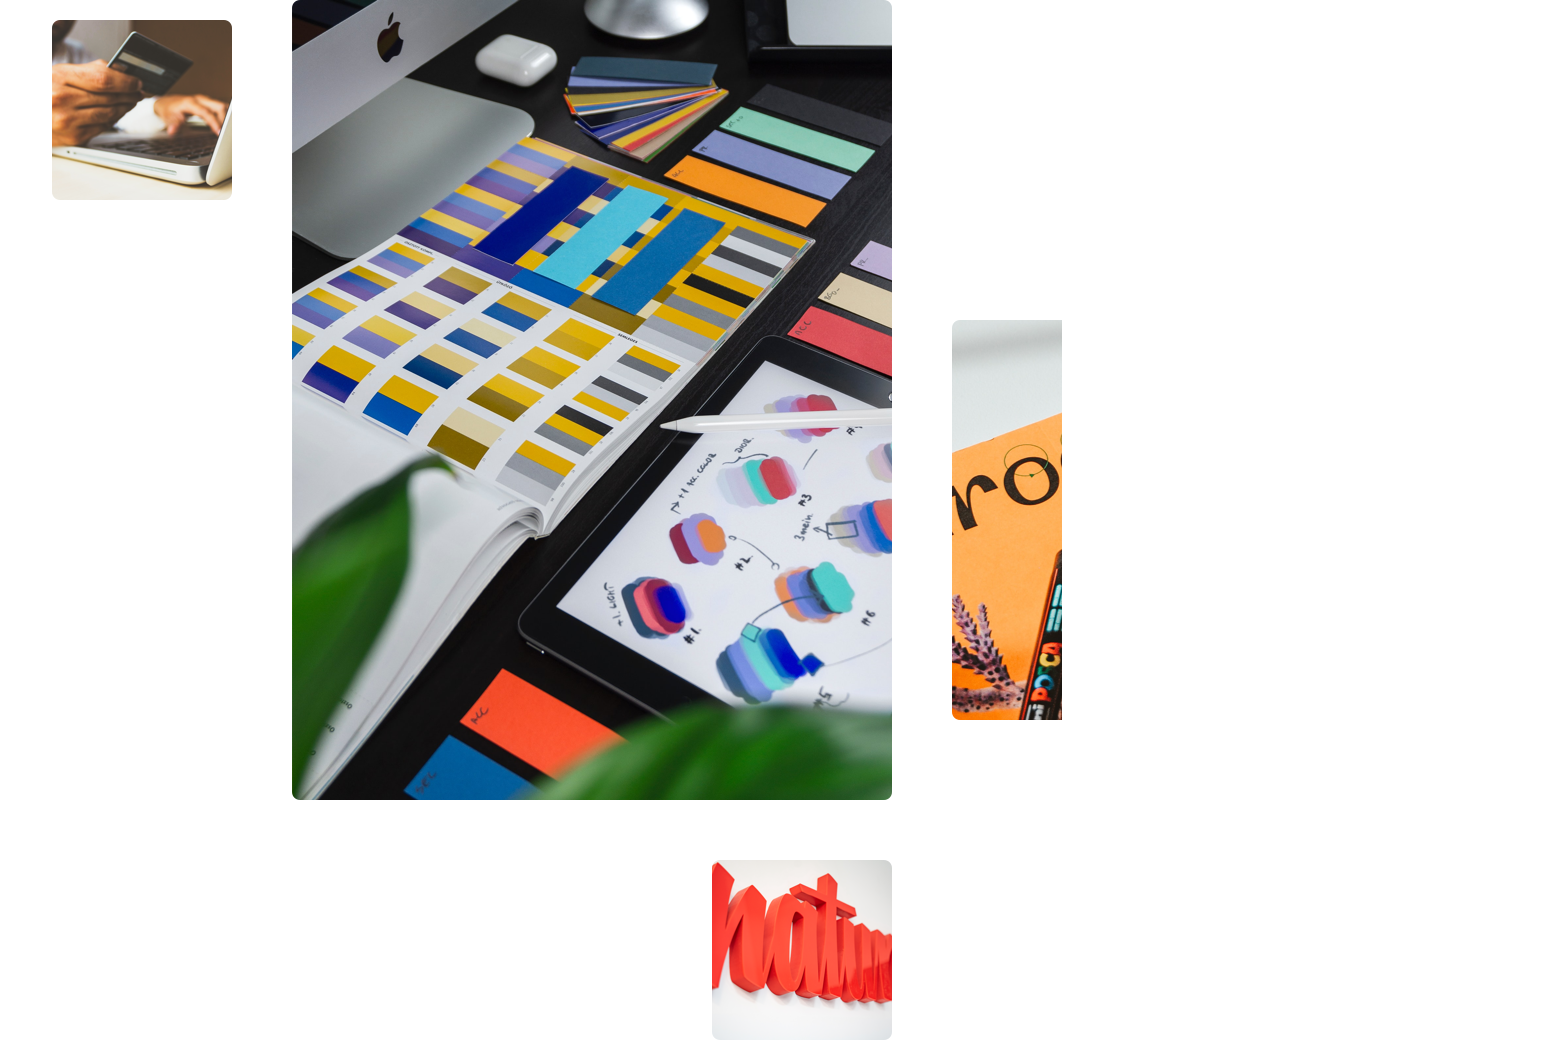
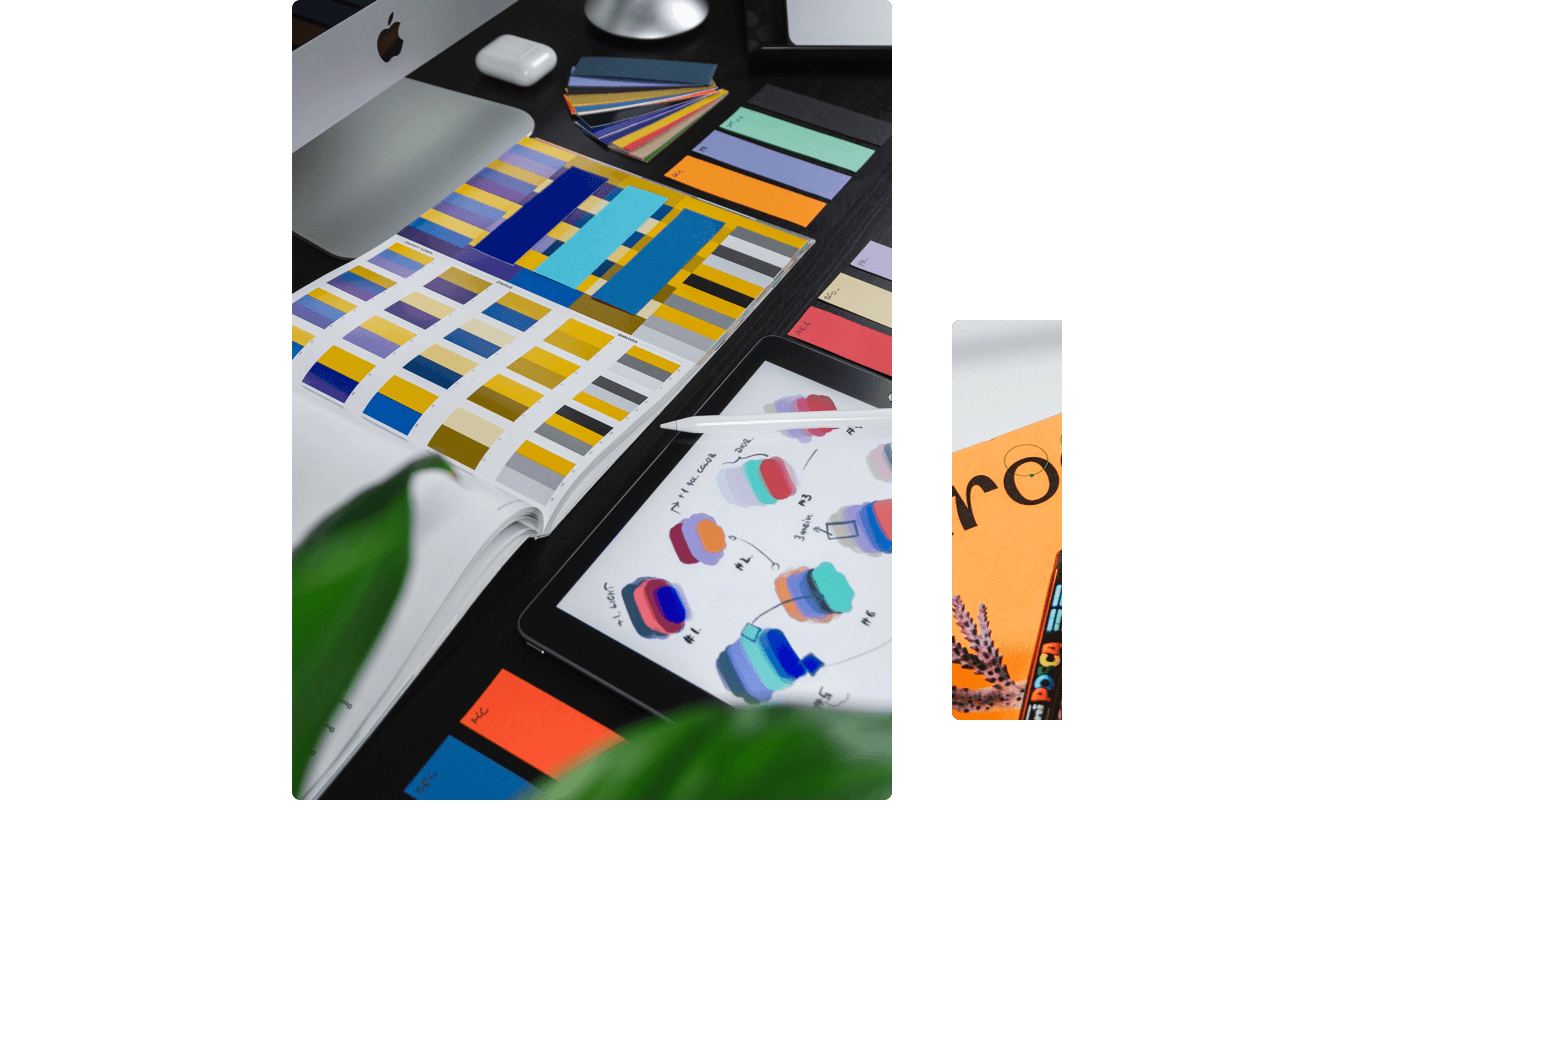
Add process animations; adjust hero, profits, dajemy  animations

Changed region(s): [[0.0309, 0.0, 0.1546, 0.2154], [0.433, 0.8, 0.5876, 1.0]]

diff --git a/_sass/new-styles/modules/services/product-design/product-design/_hero.scss b/_sass/new-styles/modules/services/product-design/product-design/_hero.scss
@@ -77,13 +77,13 @@
       position: absolute;
       z-index: 0;
 
-      &--left {
+      &--left, &--first, &--second {
         left: -25px;
         bottom: 0;
         height: 40%;
       }
 
-      &--right {
+      &--right, &--third, &--fourth {
         top: 50px;
         right: -170px;
         height: 50%;
@@ -101,12 +101,12 @@
 
 @media(min-width: 992px) {
   .product-design__hero-image {
-    &--left {
+    &--left, &--first, &--second {
       left: 0;
       height: 40%;
     }
 
-    &--right {
+    &--right, &--third, &--fourth {
       right: -150px;
       height: 60%;
     }
@@ -116,22 +116,46 @@
 @media(min-width: 1200px) {
   .product-design__hero-image {
     opacity: 0;
-    transition: 1s ease;
+    transition: .8s ease;
 
-    &--left {
+    &--left, &--first, &--second {
       transform: translateX(-300px);
       height: 55%;
     }
 
-    &--right {
+    &--right, &--third, &--fourth {
       transform: translateX(300px);
       right: -230px;
       height: 90%;
     }
 
-    &.animated {
-      opacity: 1;
-      transform: none;
+    &--left, &--right {
+      &.animated {
+        opacity: 1;
+        transform: none;
+      }
+    }
+
+    &--first, &--second, &--third, &--fourth {
+      &.animated {
+        transform: none;
+      }
+    }
+
+    &--first.animated {
+      animation: show .4s .6s forwards;
+    }
+
+    &--second.animated {
+      animation: show .4s .8s forwards;
+    }
+
+    &--third.animated {
+      animation: show .4s 1s forwards;
+    }
+
+    &--fourth.animated {
+      animation: show .4s 1.2s forwards;
     }
   }
 }
@@ -144,5 +168,11 @@
     &-text__paragraph {
       max-width: 600px;
     }
+  }
+}
+
+@keyframes show {
+  to {
+    opacity: 1;
   }
 }

diff --git a/_includes/services/product-design/product-design/hero.html b/_includes/services/product-design/product-design/hero.html
@@ -25,9 +25,37 @@
     alt="product design collage"
   />
   <img
+    class="product-design__hero-image product-design__hero-image--first"
+    src="/assets/images/loader.gif"
+    data-src="/assets/images/services/product-design/product-design/top-left-1.png"
+    data-show="on-scroll"
+    alt="product design collage"
+  />
+  <img
+    class="product-design__hero-image product-design__hero-image--second"
+    src="/assets/images/loader.gif"
+    data-src="/assets/images/services/product-design/product-design/top-left-2.png"
+    data-show="on-scroll"
+    alt="product design collage"
+  />
+  <img
     class="product-design__hero-image product-design__hero-image--right"
     src="/assets/images/loader.gif"
     data-src="/assets/images/services/product-design/product-design/top-right.png"
+    data-show="on-scroll"
+    alt="product design collage"
+  />
+  <img
+    class="product-design__hero-image product-design__hero-image--third"
+    src="/assets/images/loader.gif"
+    data-src="/assets/images/services/product-design/product-design/top-right-1.png"
+    data-show="on-scroll"
+    alt="product design collage"
+  />
+  <img
+    class="product-design__hero-image product-design__hero-image--fourth"
+    src="/assets/images/loader.gif"
+    data-src="/assets/images/services/product-design/product-design/top-right-2.png"
     data-show="on-scroll"
     alt="product design collage"
   />

diff --git a/_includes/services/product-design/product-design/scrollOnScroll.js b/_includes/services/product-design/product-design/scrollOnScroll.js
@@ -7,7 +7,7 @@ window.addEventListener('load', () => {
   let scrollingState = {
     scrollingWidth: $(window).width() > 1200,
     sectionStart: $($item).offset().top - 100,
-    sectionEnd: $($item).offset().top + 1300
+    sectionEnd: $($item).offset().top + 4310
   };
 
   if (scrollingState.scrollingWidth) {
@@ -17,11 +17,11 @@ window.addEventListener('load', () => {
   const scroll = () => {
     const scrollPosition = $(window).scrollTop();
     const scrollingArea = scrollPosition > scrollingState.sectionStart && scrollPosition < scrollingState.sectionEnd;
+    const maxImgScroll = -4320;
 
     if (scrollingState.scrollingWidth && scrollingArea) {
       const scrollTop = scrollPosition - scrollingState.sectionStart;
       const sectionHeight = scrollingState.sectionEnd - scrollingState.sectionStart;
-      const maxImgScroll = -1300;
       const scrollPercent = scrollTop / sectionHeight;
 
       $img.css('top', scrollPercent * maxImgScroll);
@@ -29,6 +29,8 @@ window.addEventListener('load', () => {
 
     if (scrollPosition < scrollingState.sectionStart) {
       $img.css('top', 0);
+    } else if (scrollPosition > scrollingState.sectionEnd) {
+      $img.css('top', maxImgScroll);
     }
   };
 

diff --git a/_sass/new-styles/modules/services/product-design/product-design/_process-switch.scss b/_sass/new-styles/modules/services/product-design/product-design/_process-switch.scss
@@ -317,13 +317,14 @@
         padding: 0 140px 0 80px;
       }
 
-      &-item:hover .product-design__process-nav__item-path {
-        stroke-dasharray: 1000;
-        stroke-dashoffset: 1000;
-        animation: animateNav 5s linear forwards;
+      &__item {
+        &-figure {
+          transition: .4s;
+        }
 
-        &--short {
-          animation: animateNav 10s linear forwards;
+        &:hover .product-design__process-nav__item-figure,
+        &--active .product-design__process-nav__item-figure {
+          transform: translate(2px, -2px);
         }
       }
     }
@@ -332,11 +333,5 @@
     .product-design__switch-card__image {
       left: 640px;
     }
-  }
-}
-
-@keyframes animateNav {
-  to {
-    stroke-dashoffset: 0;
   }
 }

diff --git a/_sass/new-styles/modules/services/product-design/product-design/_profits.scss b/_sass/new-styles/modules/services/product-design/product-design/_profits.scss
@@ -214,10 +214,8 @@
 
     &-image {
       opacity: 0;
-      transform: translateX(300px) rotate(20deg);
-      transition: transform 1.5s ease,
-                  opacity 2s ease;
-      will-change: transform, opacity;
+      transform: translateX(300px) scale(0.5);
+      transition: transform 1s ease, opacity 1.5s ease;
 
       &.animated {
         opacity: 1;

diff --git a/_sass/new-styles/modules/services/product-design/product-design/_diamond.scss b/_sass/new-styles/modules/services/product-design/product-design/_diamond.scss
@@ -92,7 +92,7 @@
     position: relative;
     width: 100%;
     height: 5000px;
-    padding-bottom: 50px;
+    padding-bottom: 130px;
 
     .services__header, &-content {
       max-width: 1130px;
@@ -113,6 +113,8 @@
     }
 
     &-image {
+      margin-top: 30px;
+      
       &__text--hidden, &__dot--hidden {
         opacity: 0;
       }

diff --git a/_sass/new-styles/modules/services/product-design/product-design/_dajemy.scss b/_sass/new-styles/modules/services/product-design/product-design/_dajemy.scss
@@ -89,7 +89,7 @@
 
 @media (min-width: 1200px) {
   .product-design__dajemy {
-    height: 2000px;
+    height: 5010px;
     margin-top: 150px;
     margin-bottom: 180px;
 
